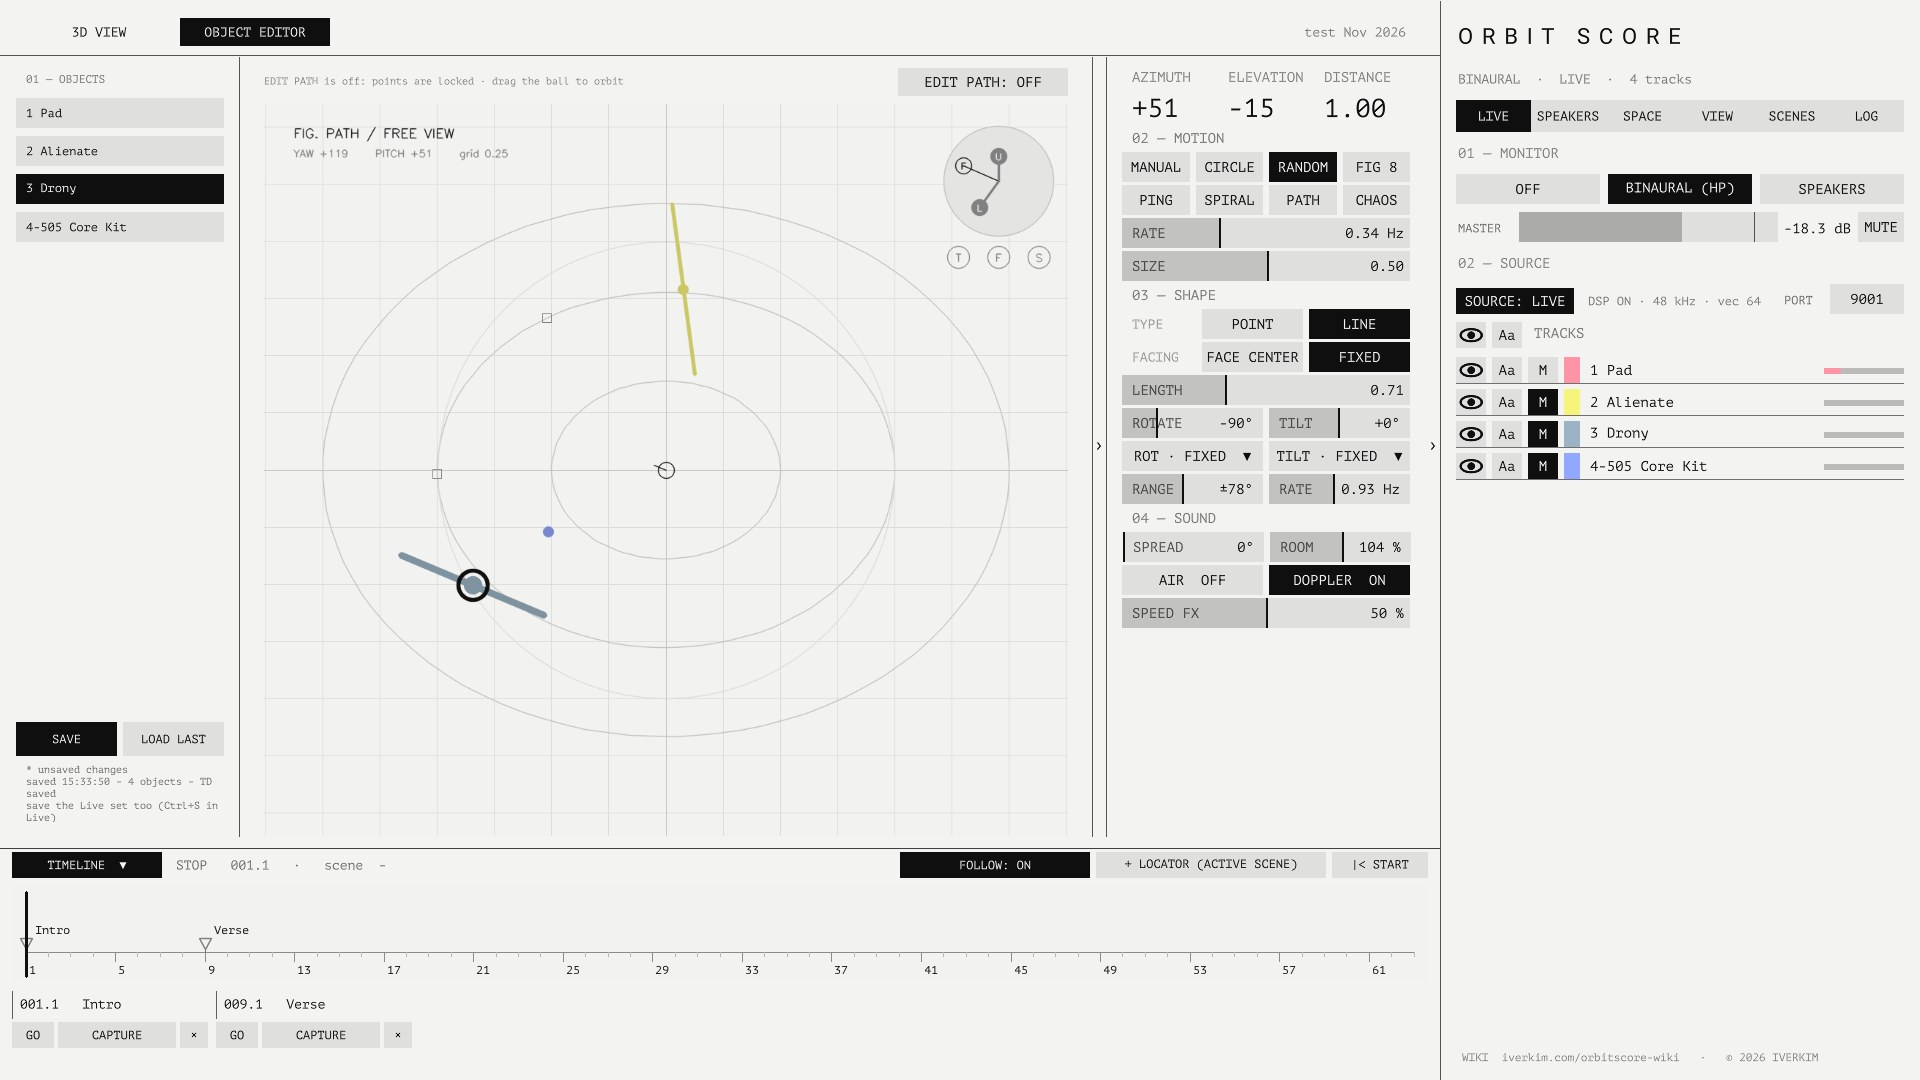
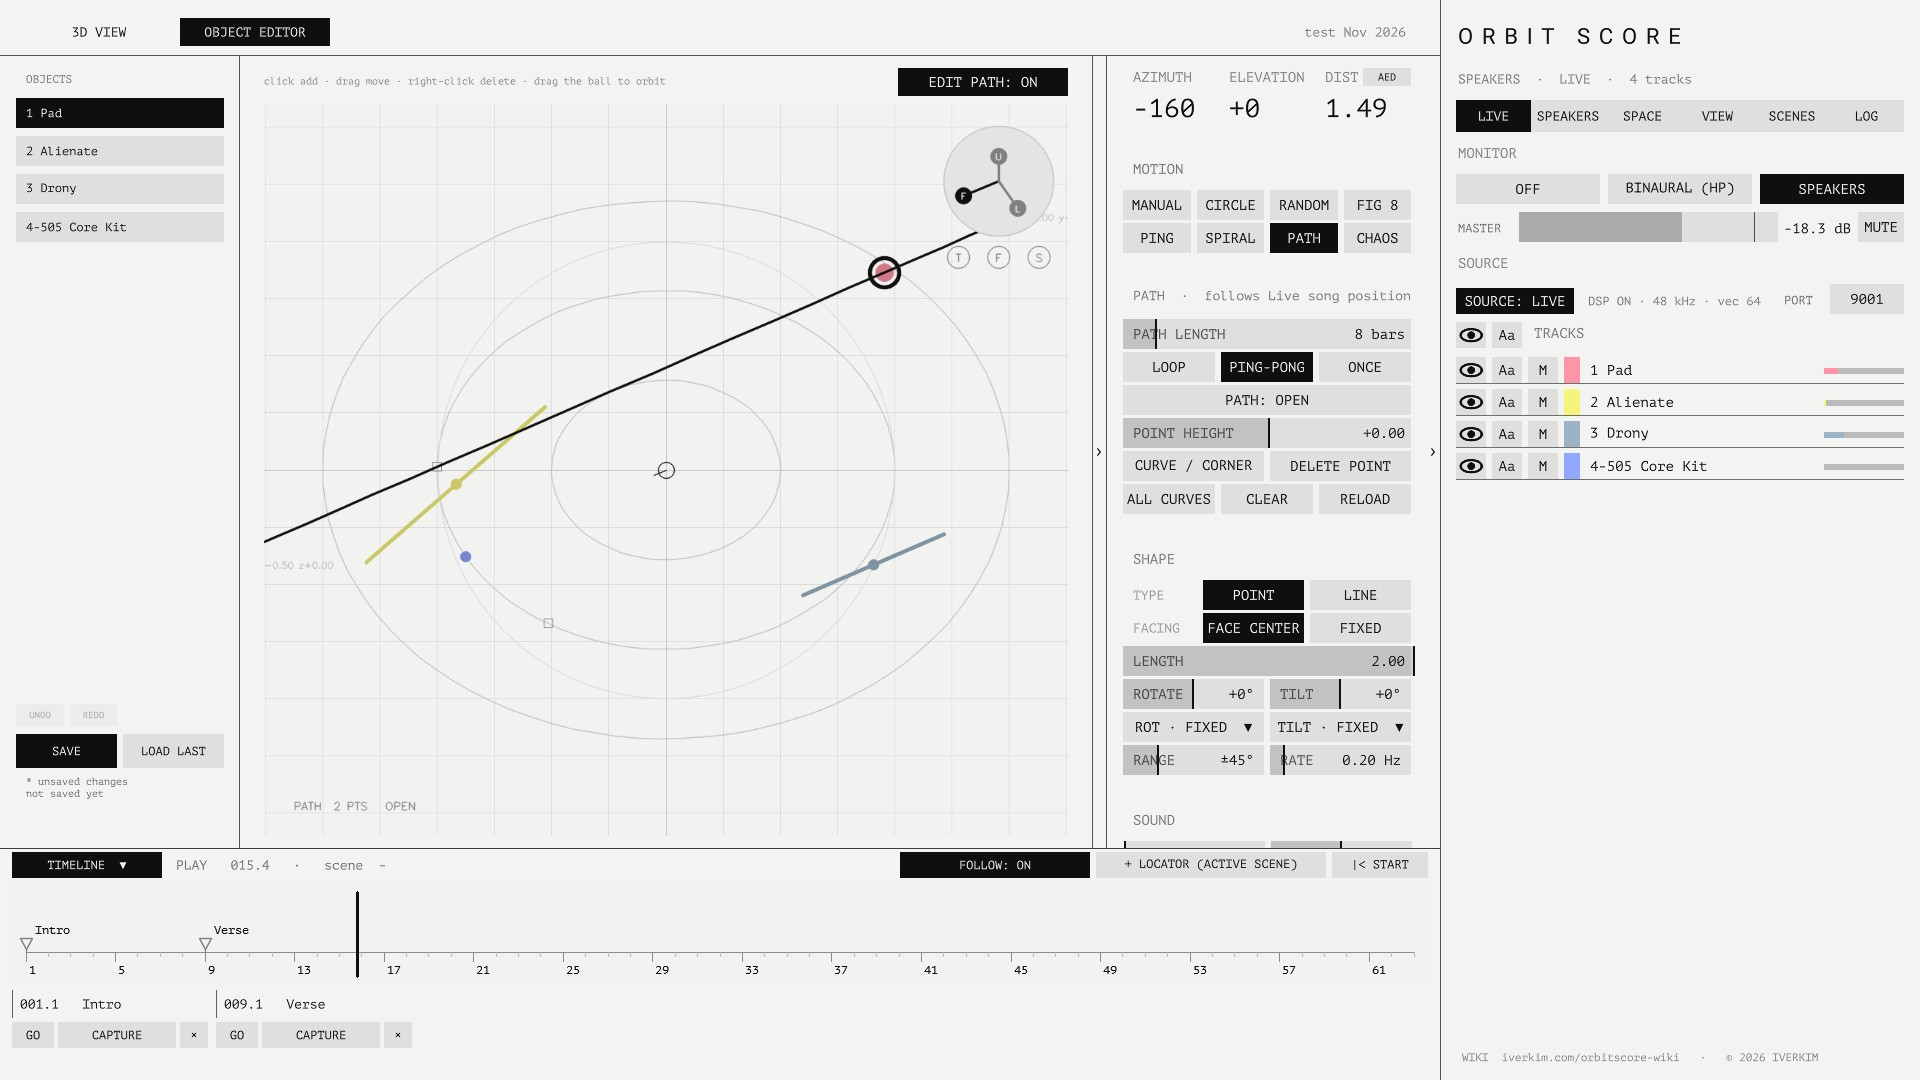
Wiki: new editor and SCENES screenshots (9.6)
Claude-Session: https://claude.ai/code/session_01TKc1CDoWRtRwsAG1rPAYtG

diff --git a/orbitscore-wiki/index.html b/orbitscore-wiki/index.html
@@ -349,7 +349,7 @@ footer{font:11.5px/1.6 var(--f-mono);color:var(--mid);border-top:1px solid var(-
 <section id="editor">
   <div class="cap">04 — Object editor</div>
   <h2>Object editor</h2>
-  <figure><img src="media/ui-editor.jpg?v=1111d" alt="OBJECT EDITOR: object list on the left, path canvas with orbit gizmo in the centre, settings on the right" loading="lazy" width="1920" height="1080"><figcaption>FIG. 4.1 — Objects · canvas · settings</figcaption></figure>
+  <figure><img src="media/ui-editor.jpg?v=1112b" alt="OBJECT EDITOR: object list on the left, path canvas with orbit gizmo in the centre, settings on the right" loading="lazy" width="1920" height="1080"><figcaption>FIG. 4.1 — Objects · canvas · settings</figcaption></figure>
   <p>Everything here is a Live device parameter: an edit goes straight to the device, and the screen shows what the device sends back.</p>
   <h3>Canvas</h3>
   <ul>
@@ -369,7 +369,7 @@ footer{font:11.5px/1.6 var(--f-mono);color:var(--mid);border-top:1px solid var(-
   </table></div>
   <p>Curves are Catmull-Rom splines played at constant speed; position = song position ÷ (Path Length × 4 beats). The path, its settings and EDIT PATH show only while the object's motion is PATH — choose another motion and they disappear (the path stays stored); a straight fly-by is just two corner points. The selected object has a thick ring.</p>
   <h3>Settings column</h3>
-  <figure><img src="media/ui-editor-set.jpg?v=1111d" alt="Editor settings column: MOTION with RATE and SIZE, SHAPE with TYPE and FACING, line length and angles, SOUND" loading="lazy" width="320" height="710" style="max-width:320px"><figcaption>FIG. 4.2 — Settings column (a LINE object on RANDOM)</figcaption></figure>
+  <figure><img src="media/ui-editor-set.jpg?v=1112b" alt="Editor settings column: MOTION with RATE and SIZE, SHAPE with TYPE and FACING, line length and angles, SOUND" loading="lazy" width="320" height="792" style="max-width:320px"><figcaption>FIG. 4.2 — Settings column (a LINE object on RANDOM)</figcaption></figure>
   <ul>
     <li><strong>AZIMUTH · ELEVATION · DISTANCE</strong> — the big numbers on top: press and drag up / down to move the selected object (its centre; in MANUAL its position), or double-click one to type a value (Enter applies, Esc cancels). The <span class="pill">AED</span> / <span class="pill">XYZ</span> button (top right of the numbers) switches the numbers and the MANUAL sliders to <strong>X · Y · Z</strong> (X right, Y front, Z up; 1 = the ring, the ADM axes). It is only another way to read and set the same position.</li>
     <li><strong>MOTION</strong> — the eight motions. MANUAL shows AZIMUTH · ELEVATION · DISTANCE sliders; the others show RATE and SIZE (not PATH); with CHAOS the attractor buttons and CHAOS SHAPE.</li>
@@ -378,7 +378,7 @@ footer{font:11.5px/1.6 var(--f-mono);color:var(--mid);border-top:1px solid var(-
     <li><strong>SOUND</strong> — SPREAD | ROOM, AIR | DOPPLER, SPEED FX.</li>
   </ul>
   <p>Drag a slider, or <strong>double-click</strong> it to type a value (<kbd>Enter</kbd> applies, <kbd>Esc</kbd> cancels).</p>
-  <figure><img src="media/ui-editor-chaos.jpg?v=1111b" alt="Editor canvas: the dotted figure of a CHAOS (Lorenz) object" loading="lazy" width="860" height="679"><figcaption>FIG. 4.3 — A Lorenz attractor on the canvas</figcaption></figure>
+  <figure><img src="media/ui-editor-chaos.jpg?v=1112b" alt="Editor canvas: the dotted figure of a CHAOS (Lorenz) object" loading="lazy" width="860" height="635"><figcaption>FIG. 4.3 — A Lorenz attractor on the canvas</figcaption></figure>
   <h3>Saving</h3>
   <p><span class="pill">SAVE</span> writes every object's settings to <code>spatialize_snapshots/</code> and saves the TouchDesigner project; <span class="pill">LOAD LAST</span> restores the last snapshot. Save the Live set separately.</p>
   <p><span class="pill">UNDO</span> <span class="pill">REDO</span> (above SAVE; <strong>Ctrl+Z</strong> / <strong>Ctrl+Shift+Z</strong> or <strong>Ctrl+Y</strong> while the mouse is over the editor) step back through edits made here: settings, centre position, path. One drag is one step, up to 60 steps. Scene recalls and changes made in Live are not covered.</p>
@@ -389,7 +389,7 @@ footer{font:11.5px/1.6 var(--f-mono);color:var(--mid);border-top:1px solid var(-
 <section id="scenes">
   <div class="cap">05 — Scenes &amp; timeline</div>
   <h2>Scenes and timeline</h2>
-  <figure><img src="media/ui-scenes.jpg?v=1112a" alt="SCENES tab in the sidebar and the timeline bar along the bottom with two linked locators, Intro and Verse" loading="lazy" width="1920" height="1080"><figcaption>FIG. 5.1 — SCENES tab with the options of Verse open (its ghosts in the 3D view) and the timeline bar</figcaption></figure>
+  <figure><img src="media/ui-scenes.jpg?v=1112b" alt="SCENES tab in the sidebar and the timeline bar along the bottom with two linked locators, Intro and Verse" loading="lazy" width="1920" height="1080"><figcaption>FIG. 5.1 — SCENES tab with the options of Verse open (its ghosts in the 3D view) and the timeline bar</figcaption></figure>
   <p>A <strong>scene</strong> is a snapshot of the objects — centre position, motion, shape, path, sound settings — and <strong>a scene is a Live locator of the same name</strong>. Scenes live in the Spatial Master, so they save with the set and play with TouchDesigner closed.</p>
   <h3>SCENES tab</h3>
   <div class="tw"><table>
@@ -810,7 +810,7 @@ footer{font:11.5px/1.6 var(--f-mono);color:var(--mid);border-top:1px solid var(-
 <section id="ko-editor">
   <div class="cap">04 — Object editor</div>
   <h2>오브젝트 에디터</h2>
-  <figure><img src="media/ui-editor.jpg?v=1111d" alt="OBJECT EDITOR: 왼쪽 오브젝트 목록, 가운데 경로 캔버스와 궤도 기즈모, 오른쪽 설정" loading="lazy" width="1920" height="1080"><figcaption>FIG. 4.1 — 오브젝트 · 캔버스 · 설정</figcaption></figure>
+  <figure><img src="media/ui-editor.jpg?v=1112b" alt="OBJECT EDITOR: 왼쪽 오브젝트 목록, 가운데 경로 캔버스와 궤도 기즈모, 오른쪽 설정" loading="lazy" width="1920" height="1080"><figcaption>FIG. 4.1 — 오브젝트 · 캔버스 · 설정</figcaption></figure>
   <p>에디터의 모든 항목은 Live 디바이스 파라미터입니다. 편집 내용은 즉시 디바이스로 전달되고, 화면에는 디바이스가 회신한 값이 표시됩니다.</p>
   <h3>캔버스</h3>
   <ul>
@@ -830,7 +830,7 @@ footer{font:11.5px/1.6 var(--f-mono);color:var(--mid);border-top:1px solid var(-
   </table></div>
   <p>곡선은 일정한 속도로 재생되는 Catmull-Rom 스플라인입니다. 위치 = 송 포지션 ÷ (Path Length × 4박). 경로와 경로 설정, EDIT PATH는 오브젝트의 움직임이 PATH일 때만 표시됩니다. 다른 움직임을 선택하면 사라지며, 저장된 경로는 유지됩니다. 직선 경로는 모서리 점 두 개로 만듭니다. 선택한 오브젝트는 굵은 원으로 표시됩니다.</p>
   <h3>설정 열</h3>
-  <figure><img src="media/ui-editor-set.jpg?v=1111d" alt="에디터 설정 열: MOTION(RATE, SIZE), SHAPE(TYPE, FACING, 선 길이와 각도), SOUND" loading="lazy" width="320" height="710" style="max-width:320px"><figcaption>FIG. 4.2 — 설정 열 (RANDOM으로 움직이는 LINE 오브젝트)</figcaption></figure>
+  <figure><img src="media/ui-editor-set.jpg?v=1112b" alt="에디터 설정 열: MOTION(RATE, SIZE), SHAPE(TYPE, FACING, 선 길이와 각도), SOUND" loading="lazy" width="320" height="792" style="max-width:320px"><figcaption>FIG. 4.2 — 설정 열 (RANDOM으로 움직이는 LINE 오브젝트)</figcaption></figure>
   <ul>
     <li><strong>AZIMUTH · ELEVATION · DISTANCE</strong> — 상단의 큰 숫자. 누른 채 위아래로 드래그하면 선택한 오브젝트의 중심(MANUAL에서는 위치)이 바뀌고, 더블클릭하면 값을 직접 입력합니다. 숫자 오른쪽 위의 <span class="pill">AED</span> / <span class="pill">XYZ</span> 버튼으로 숫자와 MANUAL 슬라이더를 <strong>X · Y · Z</strong>(X 오른쪽, Y 앞, Z 위, 1 = 링, ADM 축)로 전환할 수 있습니다. 같은 위치를 다른 좌표로 표시·입력하는 기능입니다.</li>
     <li><strong>MOTION</strong> — 8종의 움직임. MANUAL에서는 AZIMUTH · ELEVATION · DISTANCE 슬라이더, 그 밖의 움직임에서는 RATE와 SIZE가 표시됩니다(PATH 제외). CHAOS에서는 어트랙터 선택과 CHAOS SHAPE가 추가됩니다.</li>
@@ -839,7 +839,7 @@ footer{font:11.5px/1.6 var(--f-mono);color:var(--mid);border-top:1px solid var(-
     <li><strong>SOUND</strong> — SPREAD | ROOM, AIR | DOPPLER, SPEED FX.</li>
   </ul>
   <p>슬라이더는 드래그하거나 <strong>더블클릭</strong>해 숫자를 입력합니다 (<kbd>Enter</kbd> 적용, <kbd>Esc</kbd> 취소).</p>
-  <figure><img src="media/ui-editor-chaos.jpg?v=1111b" alt="에디터 캔버스: CHAOS(Lorenz) 오브젝트의 점 도형" loading="lazy" width="860" height="679"><figcaption>FIG. 4.3 — 캔버스의 Lorenz 어트랙터</figcaption></figure>
+  <figure><img src="media/ui-editor-chaos.jpg?v=1112b" alt="에디터 캔버스: CHAOS(Lorenz) 오브젝트의 점 도형" loading="lazy" width="860" height="635"><figcaption>FIG. 4.3 — 캔버스의 Lorenz 어트랙터</figcaption></figure>
   <h3>저장</h3>
   <p><span class="pill">SAVE</span>는 모든 오브젝트 설정을 <code>spatialize_snapshots/</code>에 기록하고 TouchDesigner 프로젝트를 저장합니다. <span class="pill">LOAD LAST</span>는 마지막 스냅숏을 복원합니다. Live 세트는 별도로 저장합니다.</p>
   <p><span class="pill">UNDO</span> <span class="pill">REDO</span>(SAVE 위. 마우스가 에디터 위에 있을 때 <strong>Ctrl+Z</strong> / <strong>Ctrl+Shift+Z</strong> 또는 <strong>Ctrl+Y</strong>)는 에디터에서 한 편집(설정, 중심 위치, 경로)을 되돌립니다. 한 번의 드래그가 한 단계이며 최대 60단계입니다. 씬 불러오기와 Live에서 바꾼 값은 포함되지 않습니다.</p>
@@ -850,7 +850,7 @@ footer{font:11.5px/1.6 var(--f-mono);color:var(--mid);border-top:1px solid var(-
 <section id="ko-scenes">
   <div class="cap">05 — Scenes &amp; timeline</div>
   <h2>씬과 타임라인</h2>
-  <figure><img src="media/ui-scenes.jpg?v=1112a" alt="사이드바 SCENES 탭과 아래쪽 타임라인 바, 연결된 로케이터 Intro와 Verse" loading="lazy" width="1920" height="1080"><figcaption>FIG. 5.1 — SCENES 탭(Verse의 옵션이 열린 상태, 3D 뷰에 고스트 표시)과 타임라인 바</figcaption></figure>
+  <figure><img src="media/ui-scenes.jpg?v=1112b" alt="사이드바 SCENES 탭과 아래쪽 타임라인 바, 연결된 로케이터 Intro와 Verse" loading="lazy" width="1920" height="1080"><figcaption>FIG. 5.1 — SCENES 탭(Verse의 옵션이 열린 상태, 3D 뷰에 고스트 표시)과 타임라인 바</figcaption></figure>
   <p><strong>씬</strong>은 오브젝트 상태(중심 위치, 움직임, 모양, 경로, 사운드 설정)의 스냅숏이며, <strong>같은 이름의 Live 로케이터</strong>와 연결됩니다. 씬은 Spatial Master에 저장되므로 세트와 함께 보존되고 TouchDesigner 없이도 재생됩니다.</p>
   <h3>SCENES 탭</h3>
   <div class="tw"><table>
